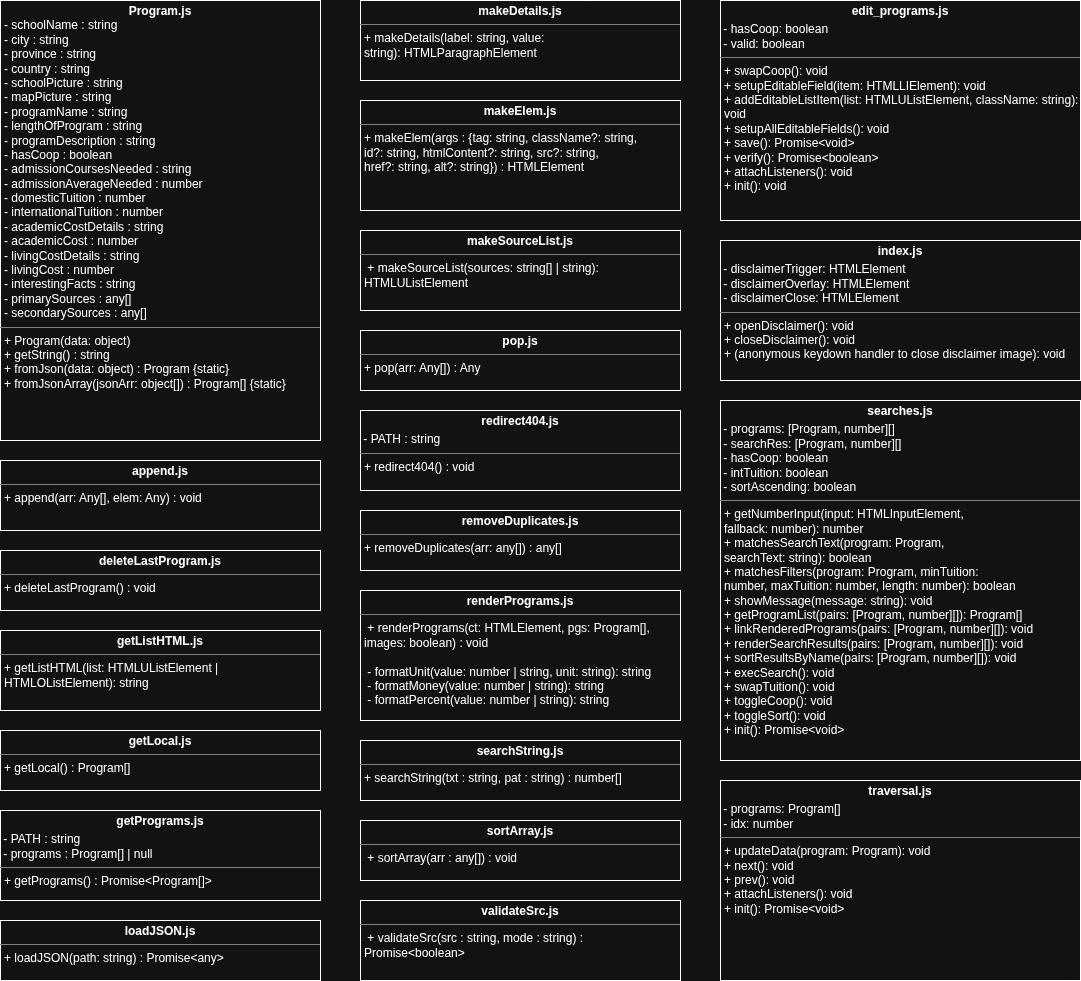
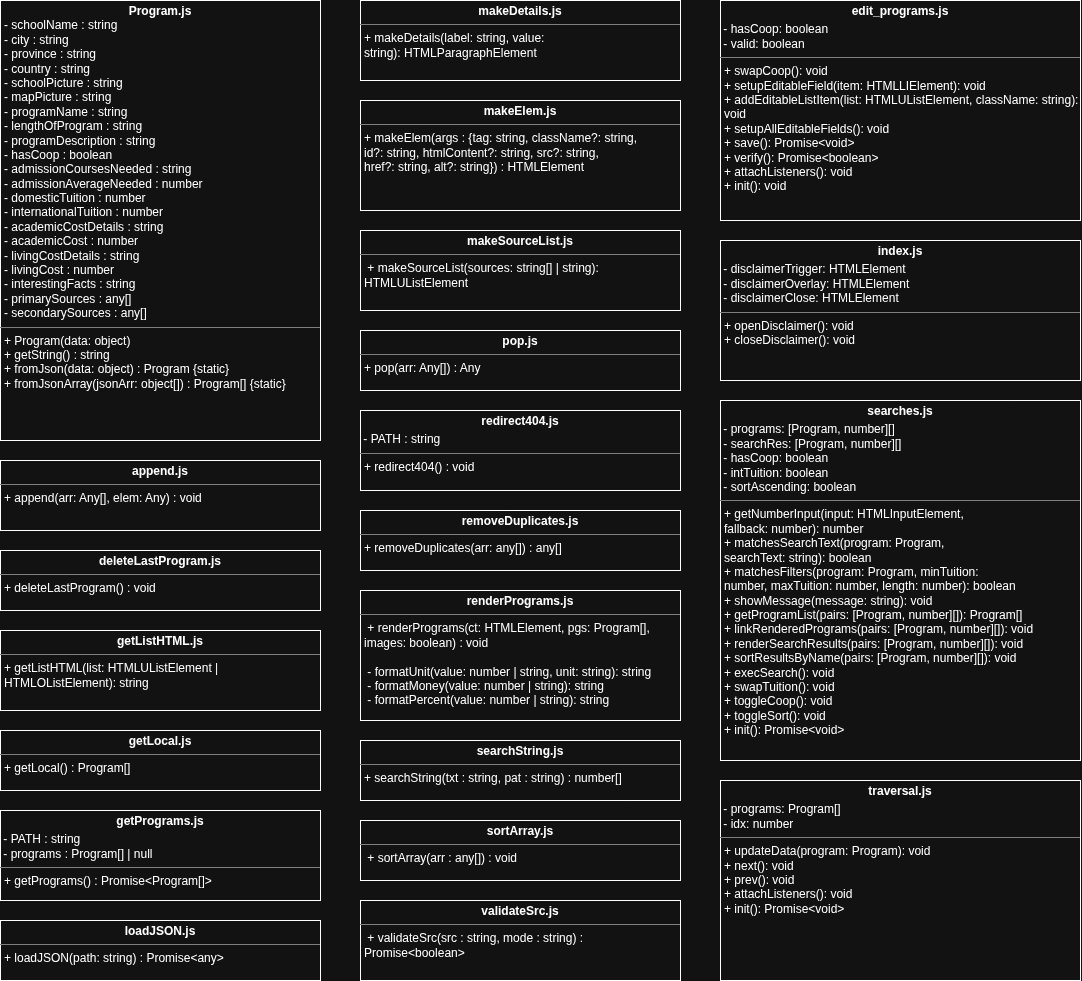
Removed dysfunctional disclaimer closing keybinds

diff --git a/assets/script/index.js b/assets/script/index.js
@@ -23,11 +23,4 @@ function closeDisclaimer() {
 }
 
 disclaimerTrigger.addEventListener("click", openDisclaimer);
-document.addEventListener("keydown", (event) => {
-    // Check if the user pressed Enter or Space to open the disclaimer without a mouse.
-    if (event.key === "Enter" || event.key === " " || event.key === 'Escape') {
-        event.preventDefault();
-        openDisclaimer();
-    }
-});
 disclaimerClose.addEventListener("click", closeDisclaimer);
